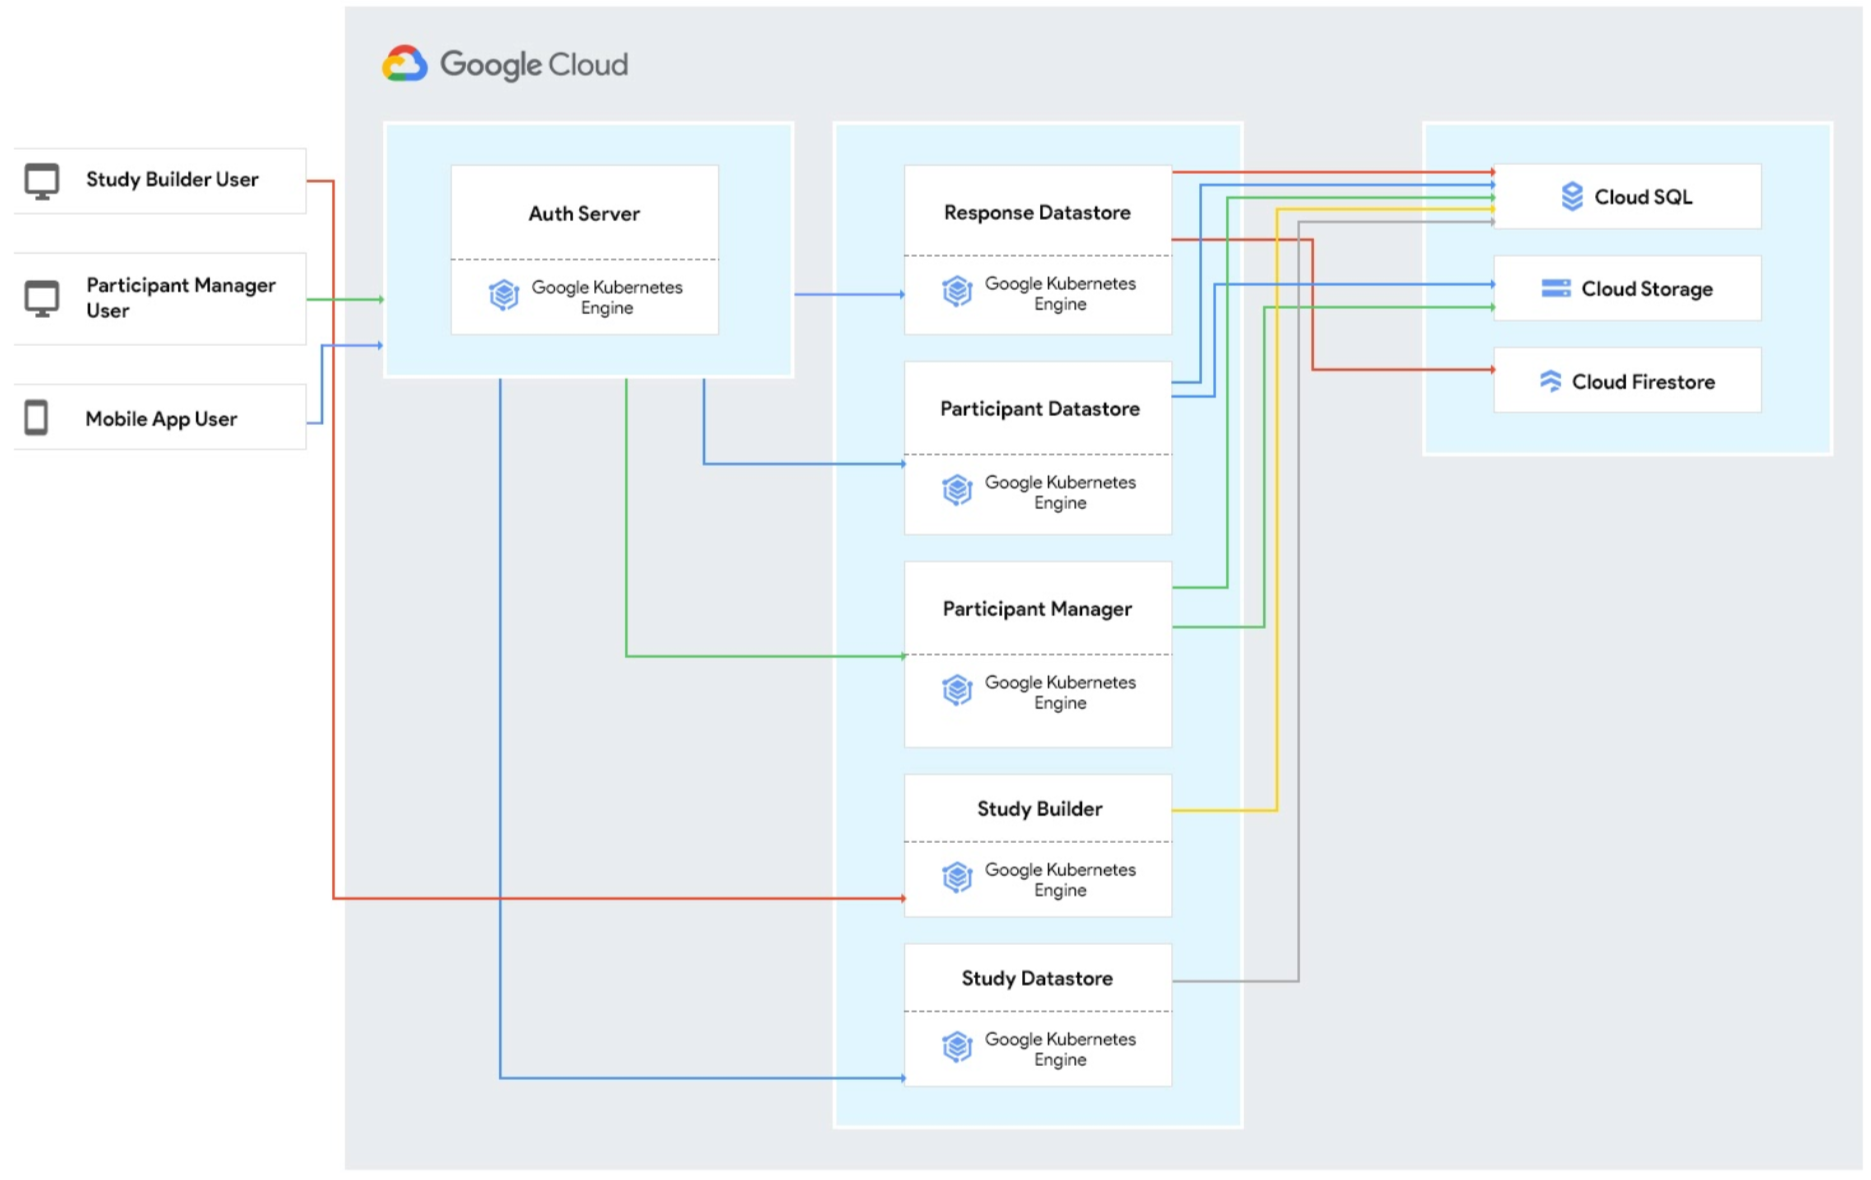
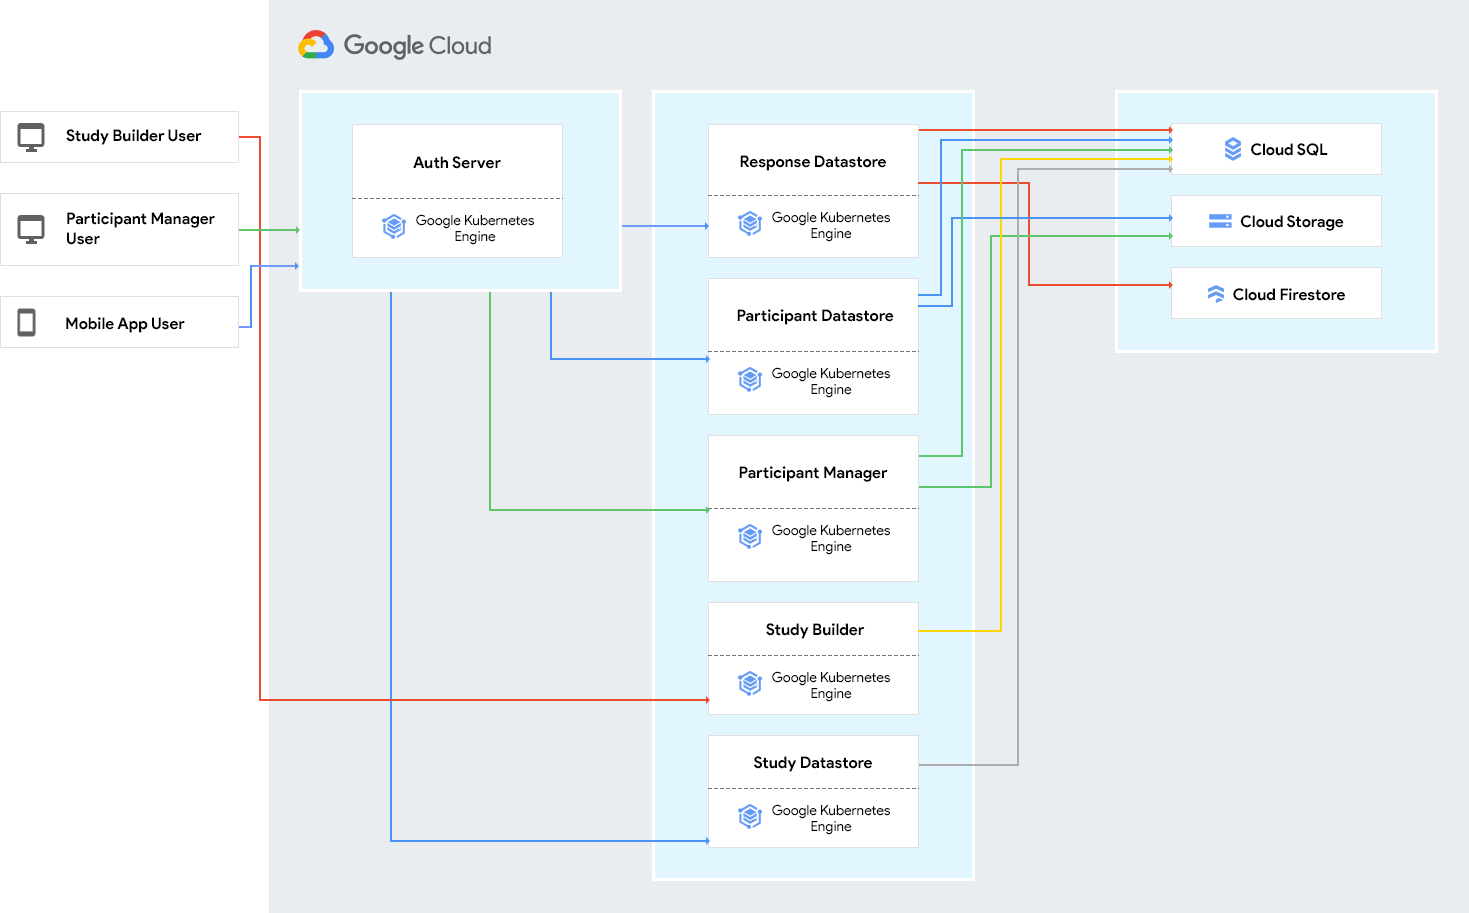
Updated architeure document to put in delpolyment related content and clarify Study Builder / Staudy Datastore interaction. Replaced architecture diagram with higher quality image, added an image for study builder flow..

diff --git a/documentation/architecture.md b/documentation/architecture.md
@@ -8,7 +8,7 @@ This document describes the architecture of FDA MyStudies. It outlines the vario
 
 ## Architecture Diagram
 
-![alt_text](images/architecture.png "Architecture diagram")
+![Architecture diagram](images/architecture.png)
 
 ## Terminology
 
@@ -41,11 +41,9 @@ The Study Builder is the source of study information for all downstream applicat
 
 The Study Builder is a Java application built on the Spring framework. The backend database is a MySQL database, which is shared with the Study Datastore. The application has a built-in authentication and authorization functionality.
 
-The Study Builder can be deployed as a Java web application on servers that have Java, Tomcat and MySQL installed. 
+When deploying the application on GCP, the cloud resources used are:
 
-When deploying the application on GCP, the cloud resources that can be used are:
-
-1.  Google Kubernetes Engine
+1.  Google Kubernetes Engine (GKE)
 1.  Cloud SQL (MySQL)
 
 ### Study Datastore
@@ -58,11 +56,9 @@ The Study Datastore does not handle or expose any user/participant information. 
 
 It is a Java application built on the Spring framework. The backend database is a MySQL database (the same database used by the Study Builder, which is used to configure the data that is exposed through the Study Datastore APIs).
 
-It can be deployed on servers that have Java, Tomcat and MySQL installed. 
+When deploying the application on GCP, the cloud resources used are:
 
-When deploying the application on GCP, the cloud resources that can be used are:
-
-1.  Google Kubernetes Engine
+1.  Google Kubernetes Engine (GKE)
 1.  Cloud SQL (MySQL)
 
 ### Auth Server
@@ -89,11 +85,9 @@ The Auth Server provides the following functionality to support server to server
 
 This application is built as a Spring Boot application. The backend datastore is a MySQL database.
 
-The web services can be deployed on servers that have Java, Tomcat and MySQL installed. 
+When deploying the application on GCP, the cloud resources used are:
 
-When deploying the application on GCP, the cloud resources that can be used are:
-
-1.  Google Kubernetes Engine
+1.  Google Kubernetes Engine (GKE)
 1.  Cloud SQL (MySQL)
 
 ### Response Datastore
@@ -111,11 +105,9 @@ This application is built as a Spring Boot application. The backend database is 
 
 The implementation to store the response data on Cloud Firestore can be swapped out to store the response data in a different location or service. 
 
-The Response Datastore can be deployed on servers that have Java, Tomcat and MySQL installed.
+When deploying the application on GCP, the cloud resources used are:
 
-When deploying the application on GCP, the cloud resources that can be used are:
-
-1.  Google Kubernetes Engine
+1.  Google Kubernetes Engine (GKE)
 1.  Cloud SQL (MySQL)
 1.  Cloud Firestore
 
@@ -138,11 +130,9 @@ These services are built as Spring Boot applications. The backend database is a 
 
 The Enrollment Management is implemented to store the consent documents on Google Cloud Storage with an option to swap out this implementation to store the documents in a different location or service.
 
-The services can be deployed on servers that have Java, Tomcat and MySQL installed. 
+When deploying the application on GCP, the cloud resources used are:
 
-When deploying the application on GCP, the cloud resources that can be used are:
-
-1.  Google Kubernetes Engine
+1.  Google Kubernetes Engine (GKE)
 1.  Cloud SQL (MySQL)
 1.  Google Cloud Storage
 
@@ -158,6 +148,15 @@ There are two mobile apps:
 
 1.  iOS - The iOS app uses Apple ResearchKit to provide study workflow features.
 1.  Android - The Android app uses ResearchStack to provide study workflow features.
+
+### Deployment
+The various platform components run in their own containers (private GKE cluster) and their deployment is automated.
+Cloud Build  automates the build of the platform components and the release of the containers to the respective locations
+Cloud Build runs the CI/CD jobs on code commit where the containers are auto-rebuilt, tagged and pushed. 
+
+Detailed deployment information can be found here:
+kubernetes/README.md
+Terraform/README.md
 
 ### Administrator Data, Participant Data and Study Data Access
 
@@ -238,6 +237,18 @@ The table below shows what type of data the platform components can access:
   </tr>
 </table>
 
+### Study Builder and Study Datastore Interaction
+
+![Study Builder flow diagram](images/studybuilder_flow.png)
+
+The study content and configuration that is set up as a part of the Study Builder is stored in the database.
+
+The Study Datastore gets the study content and study configuration from this database and provides this information to other components as ReST APIs. 
+
+The database serves as a common repository for the Study Builder and the Study datastore.
+There is no direct interaction between the Study Builder component and the Study Datastore or any other platfom components. 
+
+
 ### Platform Component Interactions
 
 The various platform component interactions are as shown below:
@@ -264,7 +275,7 @@ The various platform component interactions are as shown below:
    </td>
    <td>N/A
    </td>
-   <td>NO
+   <td>See section above
    </td>
    <td>NO
    </td>
@@ -278,7 +289,7 @@ The various platform component interactions are as shown below:
   <tr>
    <td><strong>Study Datastore</strong>
    </td>
-   <td>NO
+   <td>See section above
    </td>
    <td>N/A
    </td>
@@ -356,3 +367,4 @@ The various platform component interactions are as shown below:
    </td>
   </tr>
 </table>
+
